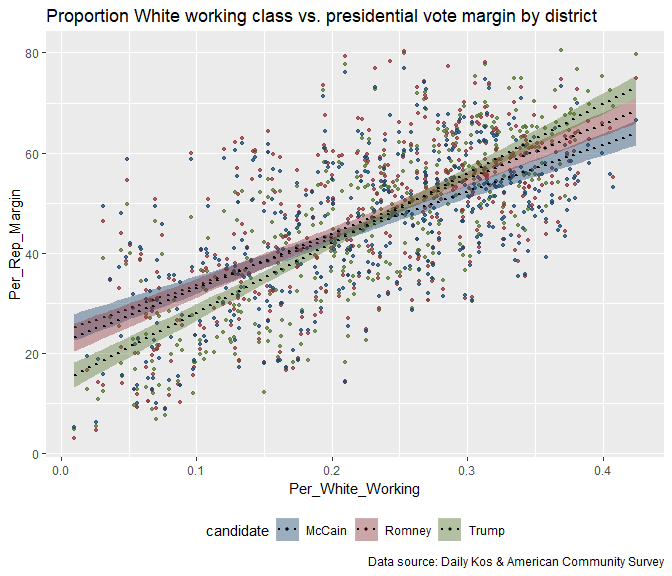
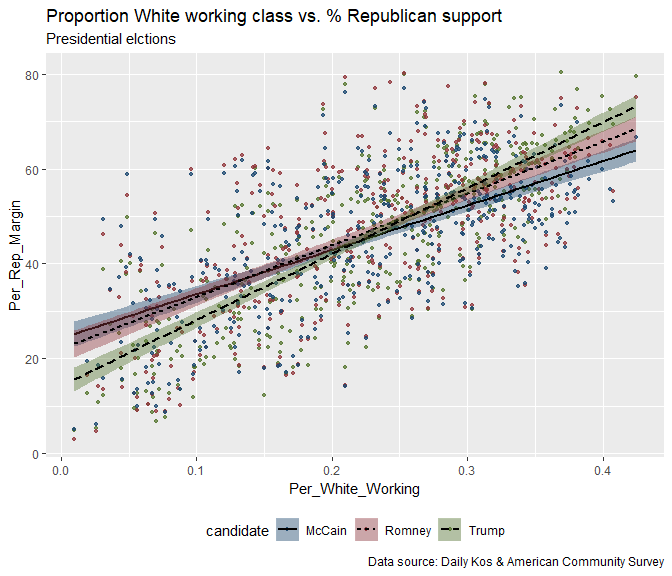
re

diff --git a/README.md b/README.md
@@ -53,7 +53,7 @@ csusa_house_dets %>%
 -   Silent: 1928-1945
 -   Greatest: &lt; 1928
 
-> For good measure, we provide a more detailed classification of Boomers --- lumping folks born post-WWII with those born in the ~sixties is a problem for me. So, (a) Boomers-proper 1946-1954 & (b) [Generation Jones](https://en.wikipedia.org/wiki/Generation_Jones) 1955-1964.
+> For good measure, we provide a more detailed classification of Boomers --- lumping folks born post-WWII with those born in the ~Sixties is a problem for me. So, (a) Boomers-proper 1946-1954 & (b) [Generation Jones](https://en.wikipedia.org/wiki/Generation_Jones) 1955-1964.
 
 ``` r
 gens115 <- csusa_house_dets %>%
@@ -418,15 +418,9 @@ tidycens_data <- tidycensus::get_acs(geography = 'congressional district',
 
 #### 5.2 The White working class
 
-> In the Trump era, educational divides in voting behavior have received a great deal of attention. In particular, pundits & news outlets have focused on a segment of the population they have dubbed the "White working class." Here we unpack this term, and provide a simple census-based formalization that is often lacking when numbers are cited.
+> In the Trump era, educational divides in voting behavior have received a great deal of attention. In particular, pundits & news outlets have focused on a segment of the population they have dubbed the "White working class."
 
-**Some definitions:**
-
--   White: People who identify racially as White and ethnically as non-Hispanic. Hispanics that identify as White are not included in this count. Race & ethnicity are treated as distinct per the US Census/ACS.
-
--   College-educated: People who have received a Bachelor's degree or higher. Importantly, this does not include people who have received an Associate's degree. Generally, this count is constrained to the population 25 years & older.
-
--   White working class: People 25 years & older who identify as White, non-Hispanic who have *not* recieved a Bachelor's degree or higher.
+-   US Census formalization of **White working class**: People 25 years & older who identify as White & non-Hispanic who do not have a Bachelor's degree or higher.
 
 > Importantly, when relationships between voting behavior & educational attainment data are presented, ...
 
@@ -523,13 +517,15 @@ by_pres <- dailykos_pres_elections %>%
 ggplot(data = by_pres, aes(x=Per_White_Working, 
                            y=Per_Rep_Margin, 
                            fill = candidate, 
-                           color = candidate)) +
+                           color = candidate, 
+                           linetype = candidate)) +
   geom_point(alpha = .75, size = 1) +
   ggthemes::scale_fill_stata()+
   ggthemes::scale_color_stata()+
-  geom_smooth(method="lm", se=T, color = 'black', linetype = 3)+
+  geom_smooth(method="lm", se=T, color = 'black')+
   theme(legend.position = "bottom")+
-  labs(title = "Proportion White working class vs. presidential vote margin by district",
+  labs(title = "Proportion White working class vs. % Republican support",
+       subtitle = 'Presidential elctions',
        caption = 'Data source: Daily Kos & American Community Survey')
 ```
 
@@ -557,17 +553,16 @@ by_pres %>%
 > The Daily Kos makes available of set of shapefiles meant to represent congressional districts and states as .... The Daily Vos makes these shapefiles availble via Google Drive. Links are provided below.
 
 ``` r
+base <- 'https://drive.google.com/uc?authuser=0&id='
 #Hex map
-dailyvos_hex_cd <- 'https://drive.google.com/uc?authuser=0&id=1E_P0r1Uv438fZsvKsvidIR02Nb5Ju9zf&export=download/HexCDv12.zip'
-dailyvos_hex_st <- 'https://drive.google.com/uc?authuser=0&id=0B2X3Bx1aCHsJVWxYZGtxMGhrMEE&export=download/HexSTv11.zip'
+dailyvos_hex_cd <- paste0(base, '1E_P0r1Uv438fZsvKsvidIR02Nb5Ju9zf&export=download/HexCDv12.zip')
+dailyvos_hex_st <- paste0(base, '0B2X3Bx1aCHsJVWxYZGtxMGhrMEE&export=download/HexSTv11.zip')
 #Tile map
-dailyvos_tile_outer <- 'https://drive.google.com/uc?authuser=0&id=0B2X3Bx1aCHsJdGF4ZWRTQmVyV2s&export=download/TileOutv10.zip'
-dailyvos_tile_inner <- 'https://drive.google.com/uc?authuser=0&id=0B2X3Bx1aCHsJR1c0SzNyWlAtZjA&export=download/TileInv10.zip'
+dailyvos_tile_outer <- paste0(base, '0B2X3Bx1aCHsJdGF4ZWRTQmVyV2s&export=download/TileOutv10.zip')
+dailyvos_tile_inner <- paste0(base, '0B2X3Bx1aCHsJR1c0SzNyWlAtZjA&export=download/TileInv10.zip')
 ```
 
 #### 6.1 A simple function for shapefile extraction
-
-We first build a simple function that ... Download & load shapefile as an `sf` object -- as process.
 
 ``` r
 get_url_shape <- function (url) {
@@ -585,8 +580,6 @@ get_url_shape <- function (url) {
 
 #### 6.2 Tile map of US states
 
-Extract shapefiles from ...
-
 ``` r
 dailykos_tile <- lapply (c(dailyvos_tile_inner,
                            dailyvos_tile_outer),
@@ -594,7 +587,7 @@ dailykos_tile <- lapply (c(dailyvos_tile_inner,
 names(dailykos_tile) <- c('inner', 'outer')
 ```
 
-Senators by state by part.
+> Here we
 
 ``` r
 sens <- rvoteview_senate_50 %>%
@@ -609,7 +602,7 @@ sens <- rvoteview_senate_50 %>%
   select(congress, State, party_name, layer)
 ```
 
-Plot. To address the consistency issue. Group by aplhabetical order -- such that if D-R, then D placed in inner. Independents?
+> The tile map below demonstrates the evolution of US Senate composition by state and party affiliation over the last thirty congresses.
 
 ``` r
 dailykos_tile$outer %>% 
@@ -641,8 +634,6 @@ dailykos_tile$outer %>%
 
 #### 6.3 Hexmap of Congressional districs
 
-Apply function.
-
 ``` r
 dailykos_shapes <- lapply (c(dailyvos_hex_cd, dailyvos_hex_st), 
                            get_url_shape)
@@ -670,8 +661,6 @@ dailykos_pres_flips$`2012`[dailykos_pres_flips$District == 'Florida 7th'] <- 'Ob
 dailykos_pres_flips$`2008`[dailykos_pres_flips$District == 'Ohio 10th'] <- 'Obama' 
 dailykos_pres_flips$`2008`[dailykos_pres_flips$District == 'New York 22nd'] <- 'McCain'
 ```
-
-Some hand edits to address ties.
 
 ``` r
 dailykos_pres_flips <- dailykos_pres_flips %>%
